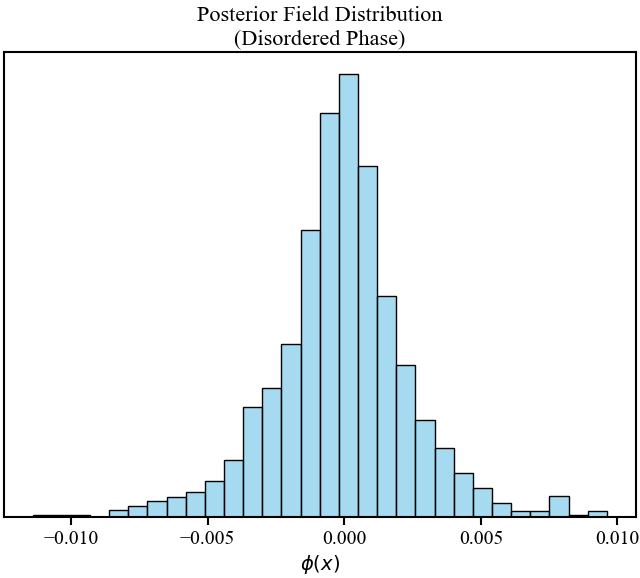
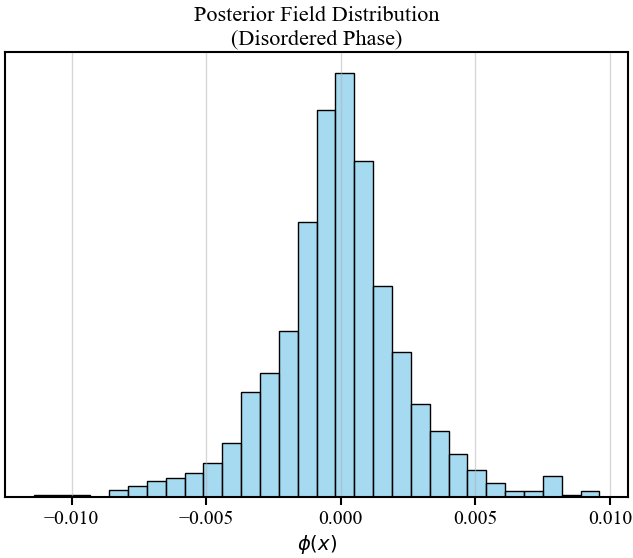
tweaks to final draft and added acknowledgements

Changed region(s): [[0.0, 0.0, 1.0, 1.0], [0.5703, 0.2742, 0.6003, 0.3047]]

diff --git a/report/main/1introduction.tex b/report/main/1introduction.tex
@@ -13,9 +13,11 @@
     \section{Introduction}\label{Introduction}
     Since the inception of Lattice Field Theory (LFT), numerical Monte-Carlo methods have been used with great success to
     study complex systems.
-    The dominant algorithm used for simulations in LFT over the past decades has been Hamiltonian Monte Carlo
+    The dominant algorithm used for simulations in LFT~\cite{borsanyi2021leading} over the past decades has been
+    Hamiltonian Monte Carlo
     (HMC)~\cite{HMC_Duane}, a Markov-Chain Monte-Carlo (MCMC) method used for \emph{parameter estimation}.
-    HMC has since found wide applications throughout a number of different fields in statistics.
+    HMC has since found wide applications throughout a number of different fields in
+    statistics~\cite{girolami2011riemann, kramer2014hamiltonian}.
 
     To recover the physical behaviour of a lattice system, the continuum limit is taken as the system approaches its
     critical point.
@@ -23,16 +25,16 @@
     \emph{topological freezing}~\cite{Hasenbusch_2018}, where all samples proposed by the algorithm are highly
     autocorrelated.
     Critical slowing down is a significant problem in LFT and Lattice QCD, with large efforts devoted to combating
-    it's effects~\cite{Pawlowski_2020,Jansen_MLMC_2020,Albergo_Flow_LFT_2019, Hackett:2021idh,Abbott:2022hkm,Albergo:2022qfi}.
+    it's effects~\cite{Pawlowski_2020,Jansen_MLMC_2020,Albergo_Flow_LFT_2019, Hackett:2021idh,Abbott:2022hkm,Albergo:2022qfi,gao2017efficient}.
 
-    A different approach to parameter estimation is with Bayesian inference.
+    A different approach to parameter estimation is with Bayesian inference~\cite{van2021bayesian}.
     A contemporary method for Bayesian inference which has found many applications in astrophysics and cosmology
     is with nested sampling~\cite{Skilling2006,Handley_polychord}.
     Nested sampling offers several advantages to classic MCMC algorithms, including simultaneous calculation of model
-    \emph{evidence}, as well as dealing effectively with multimodal distributions.
+    \emph{evidence}, as well as dealing effectively with multimodal distributions~\cite{Skilling2006}.
 
     Current implementations of nested sampling scale poorly with number of dimensions~\cite{Feroz_2009, Handley_2015},
-    with current state-of-the-art solutions limited to around $D \approx 100$ dimensions.
+    with current state-of-the-art solutions limited to around $D \approx 100$ dimensions~\cite{NS_Review_2022}.
     This quickly renders nested sampling ineffective for solving problems in LFT, maxing out at $10 \times 10$ sized
     lattices which are too small to extract observables.
 
@@ -46,7 +48,7 @@
     a computer.
 
     Furthermore, manually supplying gradients of likelihoods can be difficult for large models such as in
-    Cosmology~\cite{plank2018, Handley_2015}.
+    Cosmology~\cite{plank2018, Handley_2015, mukherjee2006nested}.
     The advent of auto differentiation~\cite{NEURIPS2020_9332c513, 10.1145/3458817.3476165, 10.5555/3571885.3571964}
     can overcome this challenge by allowing us to automatically calculate gradients of any function without
     numerical error.

diff --git a/report/main/8results.tex b/report/main/8results.tex
@@ -25,7 +25,7 @@
     For this setup, the average number of nested sampling iterations to converge is $i_{\max} \approx 15,000$.
 
     The mean magnetisation is calculated as the mean value of absolute field value.
-    We can see the distribution of $\phi(x)$ for an action in the disordered phase in~\cref{fig:magnetisation}.
+    We show the distribution of $\phi(x)$ for an action in the disordered phase in~\cref{fig:magnetisation}.
 \begin{figure}[h!]
     \center
     \includegraphics[width=\linewidth]{../figures/Magnetisation}
@@ -37,7 +37,7 @@
     }\label{fig:magnetisation}
     \end{figure}
 
-    We vary the action~\eqref{eq:phi4_action} across the range $\kappa \in (0, 0.3), \quad \lambda \in (0, 0.03)$ for
+    We vary the action~\eqref{eq:phi4_action} across the range $\kappa \in (0, 0.3), \lambda \in (0, 0.03)$ for
     a total of $1,000$ unique actions, and calculate $\langle M \rangle$ for each one, to construct a phase diagram
     shown in~\cref{fig:phase_diagram}.
 

diff --git a/report/main/10conclusion.tex b/report/main/10conclusion.tex
@@ -34,4 +34,13 @@
     By exploiting gradients we believe it is possible to use this algorithm for a new class of
     Bayesian problems previously inaccessible to machines.
 
+\section*{Acknowledgements}
+    I would like to acknowledge my supervisors, who have provided invaluable guidance and support throughout my
+    foray into physics research.
+
+    I would also like to thank Dr Will Handley for his helpful insights
+    and for staying to answer my questions after his lectures.
+
+    Finally, I would like to thank my housemates, who all also study physics.
+    They have proved invaluable friends who are always there to make you laugh while debugging code together at midnight.
 \end{document}

diff --git a/report/main/main_report.tex b/report/main/main_report.tex
@@ -71,7 +71,7 @@
 
      We also use the algorithm in a novel application of nested sampling to $\phi^4$ lattice field theory,
      a simple model which exhibits a phase transition.
-     We successfully measure observables on $128 \time 128$ sized lattices ($D=16,384$), exploring the behaviour at
+     We successfully measure observables on $128 \times 128$ sized lattices ($D=16,384$), exploring the behaviour at
      criticality.
      We further demonstrate the resistance of our method to topological freezing and critical slowing down.
 \end{abstract}

diff --git a/report/main/appendix.tex b/report/main/appendix.tex
@@ -33,7 +33,7 @@
     This allows the code base to be easily compartmentalised and extended by other authors, while also keeping an easy
     plug-in design for any likelihood function.
 
-    \begin{figure}[h!]
+    \begin{figure}[t!]
         \center
         \includegraphics[width=\linewidth]{../figures/UML_Diagram}
         \caption{
@@ -133,6 +133,7 @@
     \begin{equation}\label{eq:metric_adaption_appendix}
     M = \frac{2}{D} \sqrt{\mathrm{Var}[U]} \mathbb{1},
     \end{equation}
+
 
 
 \end{document}

diff --git a/app/scripts/phi4_anesthetic.py b/app/scripts/phi4_anesthetic.py
@@ -28,7 +28,7 @@ params = {
     'ytick.major.size': 6,
     'xtick.minor.size': 4,
     'ytick.minor.size': 4,
-    'axes.grid': False,
+    'axes.grid': True,
     'grid.alpha': 0.5,
     'grid.linewidth': 1,
     'image.cmap': 'viridis',
